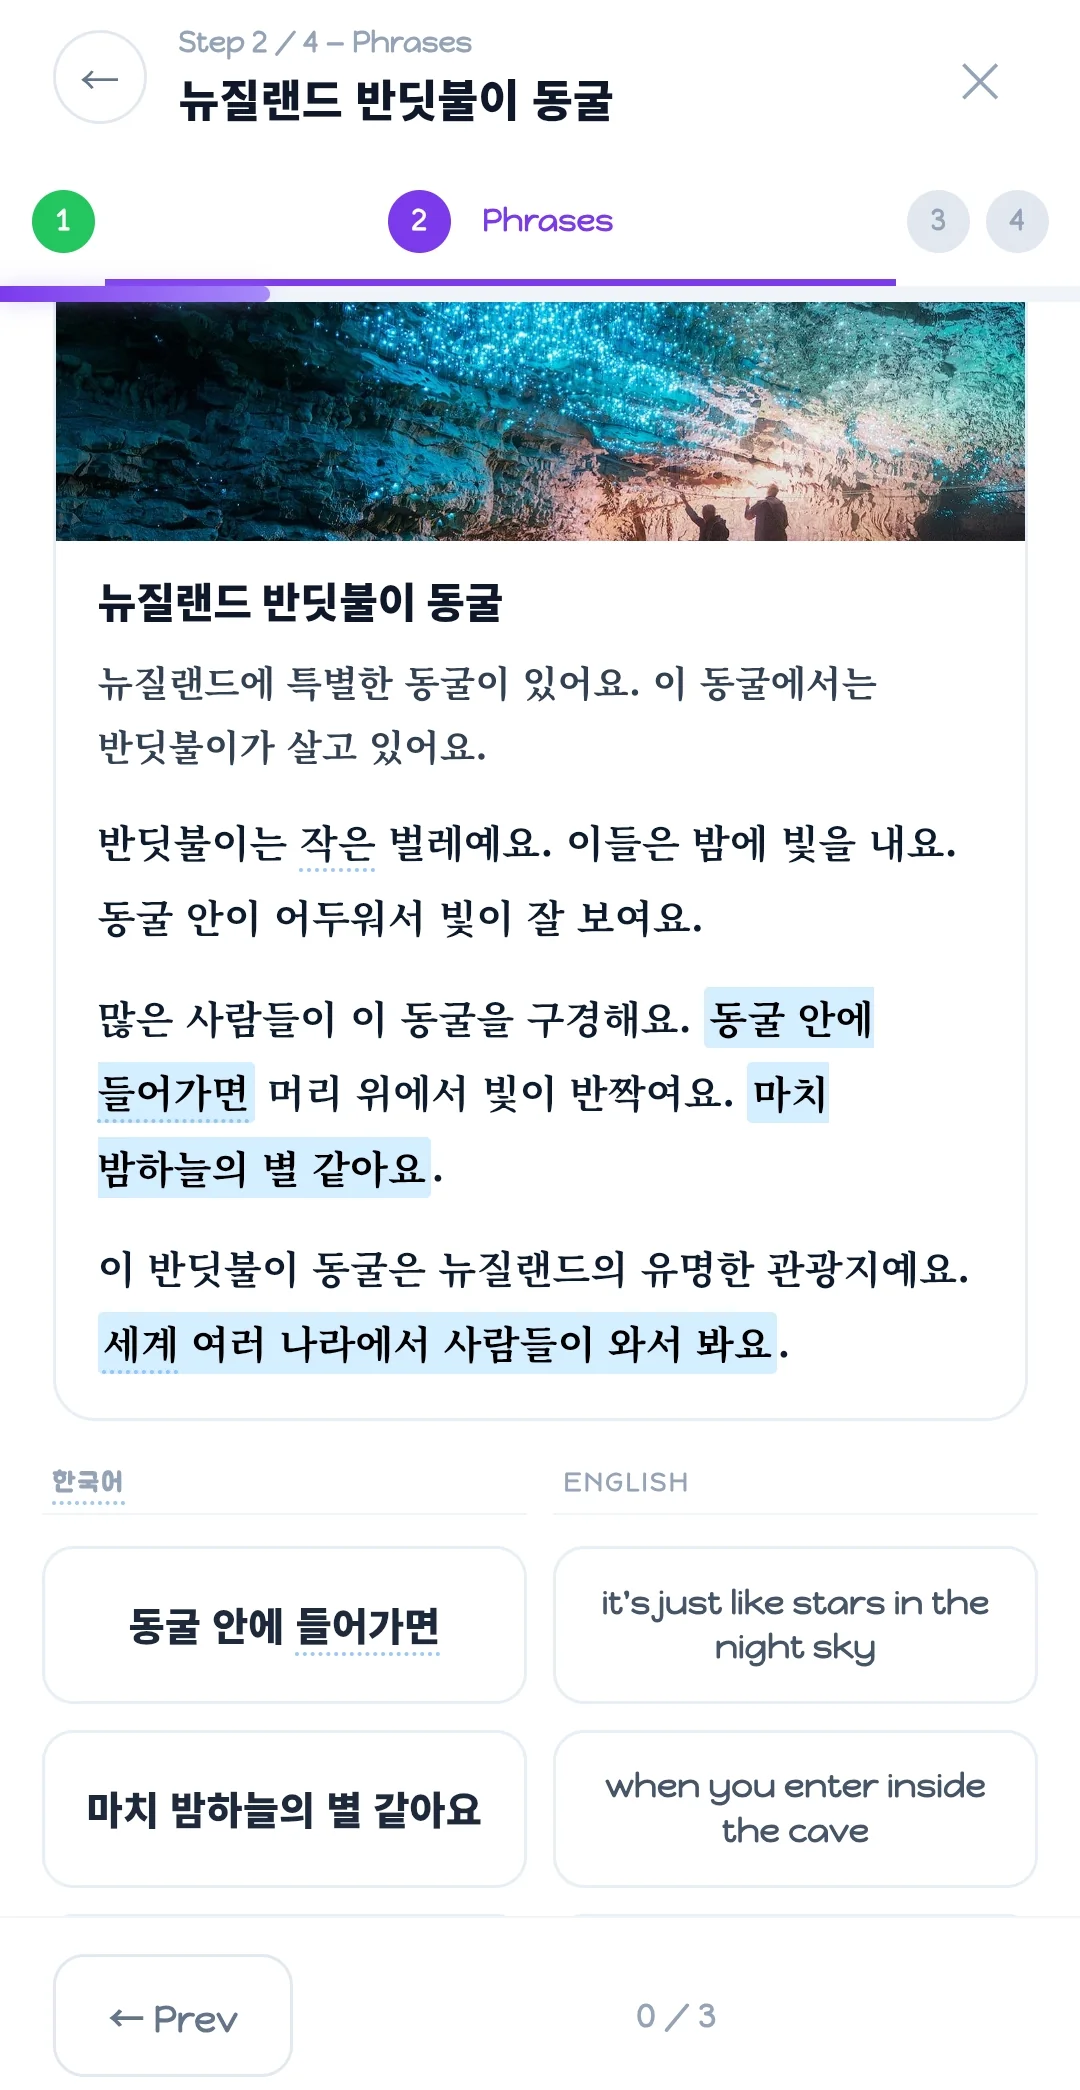
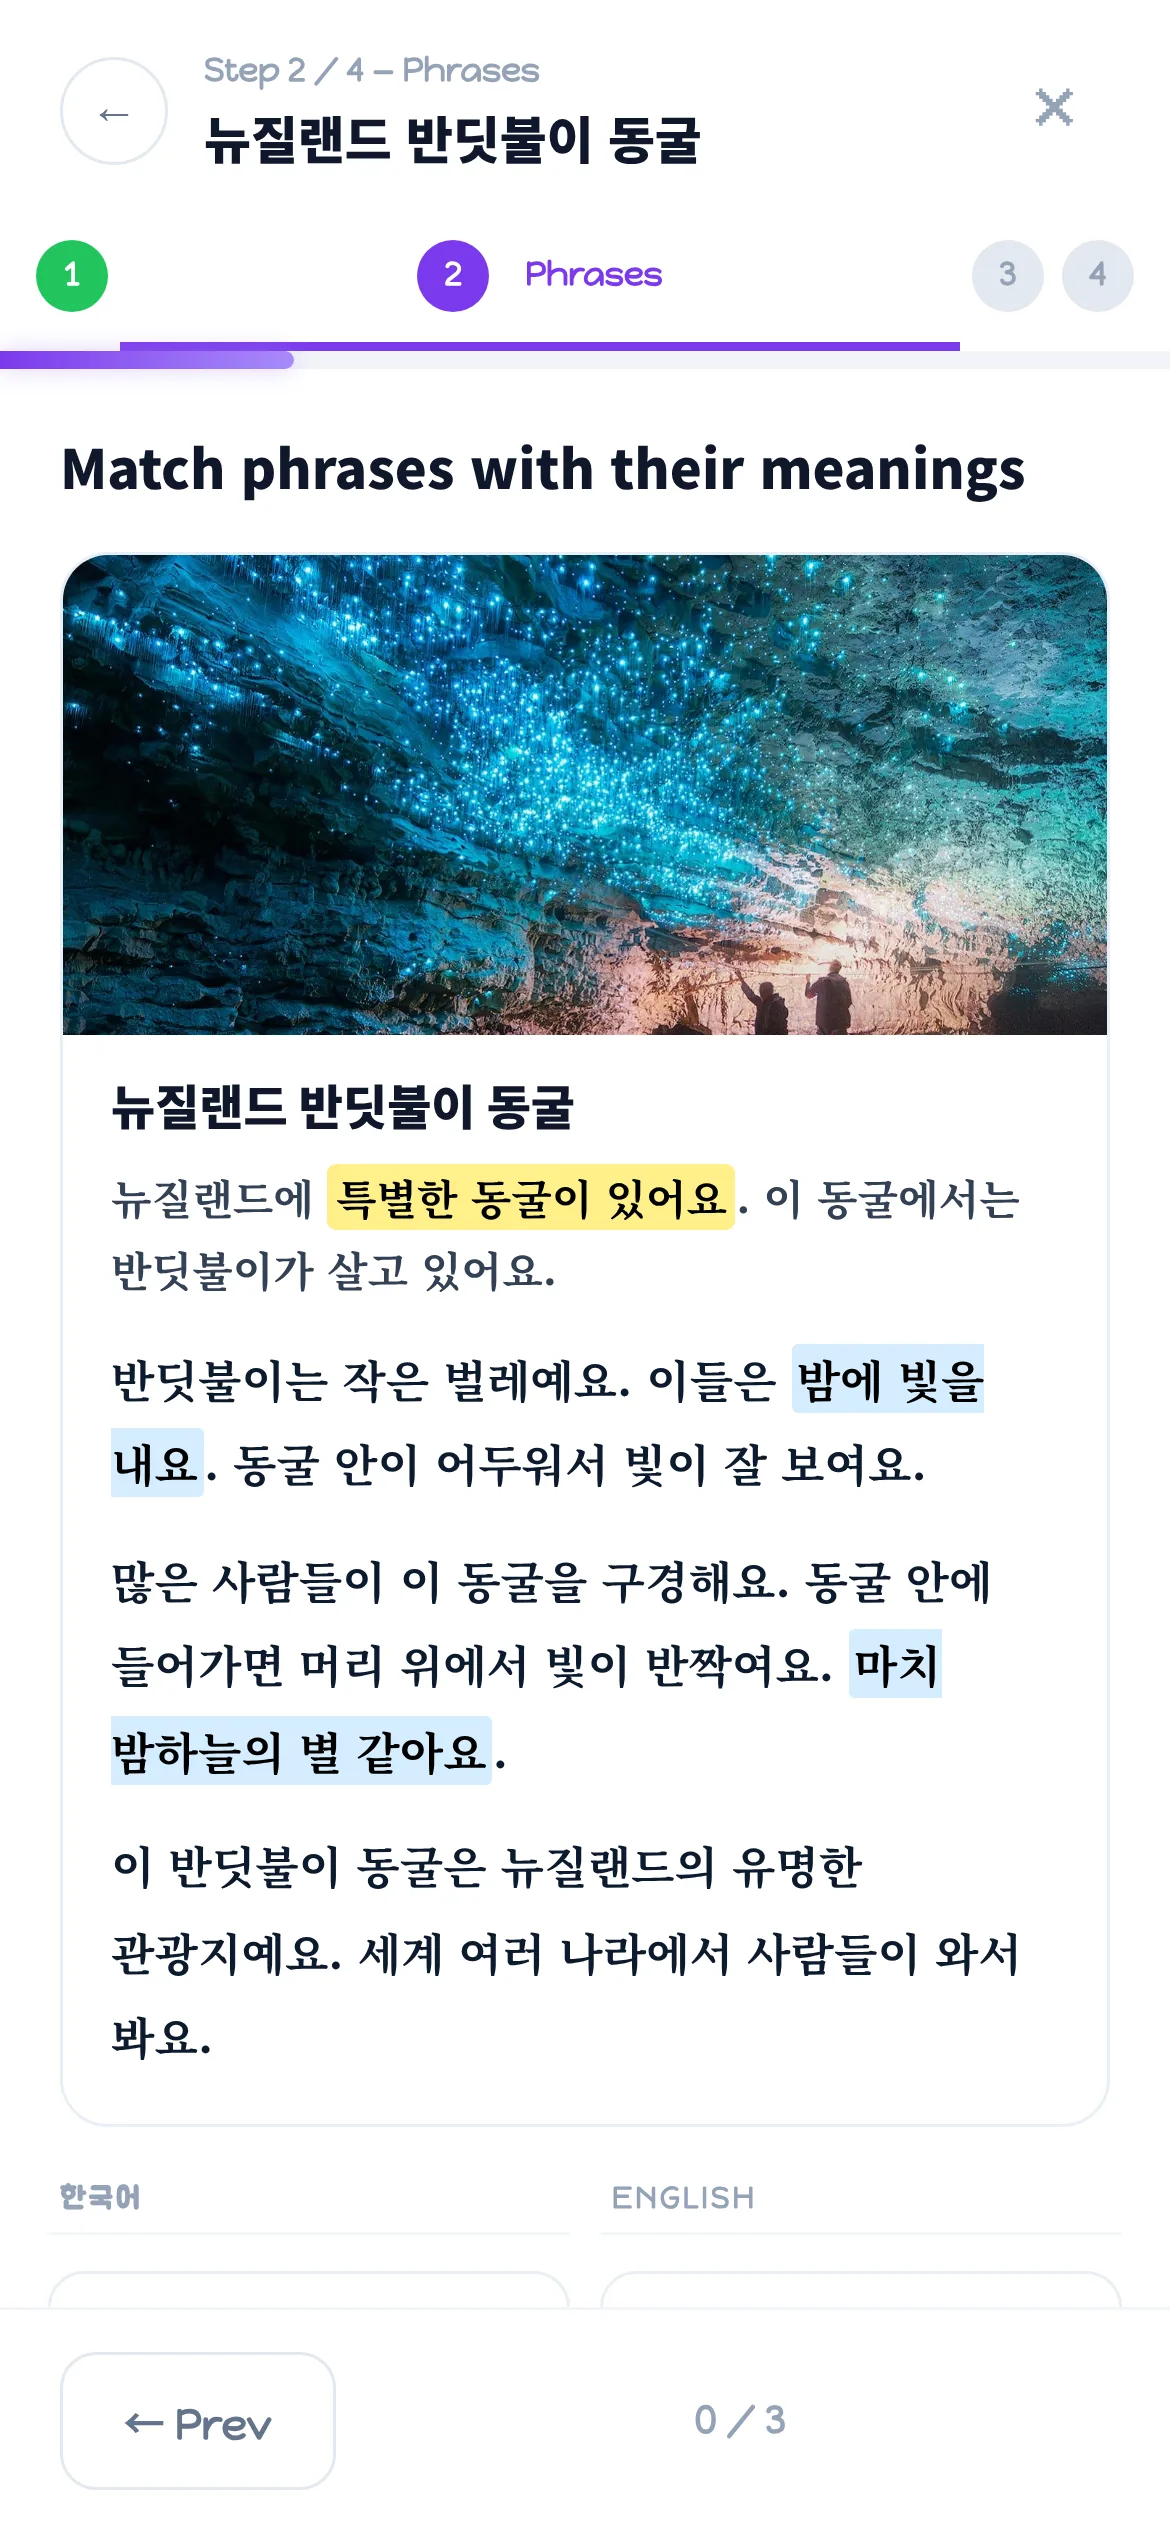
Replace premium-gated guide/landing screenshots with fresh live captures
Captured signed in on a Premium demo account (real current UI):
- 4-step Article Study (Vocab / Phrases / Reading / Quiz) on the New
  Zealand firefly-cave Starter article — real study content, not the old demo
- Express Practice node map ("What do you want to learn?") -> hero-express
- Korean Slang modal (real example) -> feat-slang
- Tap-to-analyze panel (translation + vocab + grammar) -> step1-tap-analysis,
  which is the landing hero device shot

Cache-buster bumped to 20261013c on every replaced image. No HTML layout
changes; verified both pages render at desktop width with no overflow.

Claude-Session: https://claude.ai/code/session_014HZ4hAxMZdgDGksVGuZSoX

diff --git a/korehan/landing.html b/korehan/landing.html
@@ -14,13 +14,13 @@
 <meta property="og:url" content="https://korehani.com/landing.html">
 <meta property="og:title" content="KoreHani — Learn Korean, Naturally">
 <meta property="og:description" content="Read real Korean. Tap any sentence for instant translation, vocab, and grammar. Build a Vocabulary Universe of every word you save.">
-<meta property="og:image" content="https://korehani.com/img/guide/hero-express.png">
+<meta property="og:image" content="https://korehani.com/img/guide/hero-express.png?v=20261013c">
 <meta property="og:locale" content="en_US">
 <meta property="og:locale:alternate" content="ko_KR">
 <meta name="twitter:card" content="summary_large_image">
 <meta name="twitter:title" content="KoreHani — Learn Korean, Naturally">
 <meta name="twitter:description" content="Read real Korean. Tap any sentence for instant translation, vocab, and grammar.">
-<meta name="twitter:image" content="https://korehani.com/img/guide/hero-express.png">
+<meta name="twitter:image" content="https://korehani.com/img/guide/hero-express.png?v=20261013c">
 <link rel="preconnect" href="https://fonts.googleapis.com">
 <link rel="preconnect" href="https://fonts.gstatic.com" crossorigin>
 <link rel="preconnect" href="https://samghztrdvtxmrmawneu.supabase.co" crossorigin>
@@ -331,7 +331,7 @@ button{font:inherit;cursor:pointer}
       <div class="hero-device">
         <div class="hero-device-glow"></div>
         <div class="hero-device-screen">
-          <picture><source srcset="img/guide/step1-tap-analysis.webp?v=20261013" type="image/webp"><img src="img/guide/step1-tap-analysis.jpg?v=20261013" alt="Article reader on mobile with the tap-to-analyze panel open" width="540" height="1040" fetchpriority="high" decoding="async"></picture>
+          <picture><source srcset="img/guide/step1-tap-analysis.webp?v=20261013c" type="image/webp"><img src="img/guide/step1-tap-analysis.jpg?v=20261013c" alt="Article reader on mobile with the tap-to-analyze panel open" width="540" height="1040" fetchpriority="high" decoding="async"></picture>
         </div>
       </div>
     </div>
@@ -422,19 +422,19 @@ button{font:inherit;cursor:pointer}
   </div>
   <div class="fivestep-rail">
     <div class="fivestep-card" data-reveal>
-      <div class="fivestep-img"><span class="fivestep-card-num">1</span><picture><source srcset="img/guide/step2-vocab.webp" type="image/webp"><img src="img/guide/step2-vocab.png" alt="Vocab step" loading="lazy" decoding="async" width="480" height="900"></picture></div>
+      <div class="fivestep-img"><span class="fivestep-card-num">1</span><picture><source srcset="img/guide/step2-vocab.webp?v=20261013c" type="image/webp"><img src="img/guide/step2-vocab.png?v=20261013c" alt="Vocab step" loading="lazy" decoding="async" width="480" height="900"></picture></div>
       <div class="fivestep-body"><h4>Vocab</h4><p>Match each new word to its meaning, with audio.</p></div>
     </div>
     <div class="fivestep-card" data-reveal>
-      <div class="fivestep-img"><span class="fivestep-card-num">2</span><picture><source srcset="img/guide/step2-grammar.webp" type="image/webp"><img src="img/guide/step2-grammar.png" alt="Phrases step" loading="lazy" decoding="async" width="480" height="900"></picture></div>
+      <div class="fivestep-img"><span class="fivestep-card-num">2</span><picture><source srcset="img/guide/step2-grammar.webp?v=20261013c" type="image/webp"><img src="img/guide/step2-grammar.png?v=20261013c" alt="Phrases step" loading="lazy" decoding="async" width="480" height="900"></picture></div>
       <div class="fivestep-body"><h4>Phrases</h4><p>Recognize the natural chunks Koreans actually use.</p></div>
     </div>
     <div class="fivestep-card" data-reveal>
-      <div class="fivestep-img"><span class="fivestep-card-num">3</span><picture><source srcset="img/guide/step2-reading.webp" type="image/webp"><img src="img/guide/step2-reading.png" alt="Reading step" loading="lazy" decoding="async" width="480" height="900"></picture></div>
+      <div class="fivestep-img"><span class="fivestep-card-num">3</span><picture><source srcset="img/guide/step2-reading.webp?v=20261013c" type="image/webp"><img src="img/guide/step2-reading.png?v=20261013c" alt="Reading step" loading="lazy" decoding="async" width="480" height="900"></picture></div>
       <div class="fivestep-body"><h4>Reading</h4><p>Fill blanks back into the article from the word bank.</p></div>
     </div>
     <div class="fivestep-card" data-reveal>
-      <div class="fivestep-img"><span class="fivestep-card-num">4</span><picture><source srcset="img/guide/step2-quiz.webp?v=20261013" type="image/webp"><img src="img/guide/step2-quiz.png?v=20261013" alt="Quiz step" loading="lazy" decoding="async" width="480" height="900"></picture></div>
+      <div class="fivestep-img"><span class="fivestep-card-num">4</span><picture><source srcset="img/guide/step2-quiz.webp?v=20261013c" type="image/webp"><img src="img/guide/step2-quiz.png?v=20261013c" alt="Quiz step" loading="lazy" decoding="async" width="480" height="900"></picture></div>
       <div class="fivestep-body"><h4>Quiz</h4><p>Multiple-choice or type-the-answer — both modes available.</p></div>
     </div>
   </div>
@@ -531,7 +531,7 @@ button{font:inherit;cursor:pointer}
     </div>
     <div class="fblock-visual" data-reveal>
       <div class="visual-card">
-        <picture><source srcset="img/guide/hero-express.webp" type="image/webp"><img src="img/guide/hero-express.png" alt="Express Practice node graph" loading="lazy" decoding="async" width="540" height="540"></picture>
+        <picture><source srcset="img/guide/hero-express.webp?v=20261013c" type="image/webp"><img src="img/guide/hero-express.png?v=20261013c" alt="Express Practice node graph" loading="lazy" decoding="async" width="540" height="540"></picture>
       </div>
     </div>
   </div>
@@ -555,7 +555,7 @@ button{font:inherit;cursor:pointer}
     </div>
     <div class="fblock-visual" data-reveal>
       <div class="visual-card">
-        <picture><source srcset="img/guide/feat-slang.webp" type="image/webp"><img src="img/guide/feat-slang.png" alt="FAST TRACK slang card" loading="lazy" decoding="async" width="540" height="540"></picture>
+        <picture><source srcset="img/guide/feat-slang.webp?v=20261013c" type="image/webp"><img src="img/guide/feat-slang.png?v=20261013c" alt="FAST TRACK slang card" loading="lazy" decoding="async" width="540" height="540"></picture>
       </div>
     </div>
   </div>

diff --git a/korehan/beginner-guide.html b/korehan/beginner-guide.html
@@ -145,7 +145,7 @@
     </a>
     <a href="#step2" class="step-card" data-reveal>
       <div class="step-img">
-        <picture><source srcset="img/guide/step2-vocab.webp" type="image/webp"><img src="img/guide/step2-vocab.png" alt="4-step Article Study flow" loading="lazy" decoding="async"></picture>
+        <picture><source srcset="img/guide/step2-vocab.webp?v=20261013c" type="image/webp"><img src="img/guide/step2-vocab.png?v=20261013c" alt="4-step Article Study flow" loading="lazy" decoding="async"></picture>
         <div class="step-num">2</div>
       </div>
       <div class="step-body">
@@ -198,7 +198,7 @@
       </div>
     </div>
     <div class="detail-showcase">
-      <picture><source srcset="img/guide/step1-tap-analysis.webp?v=20261013" type="image/webp"><img class="ss-main" src="img/guide/step1-tap-analysis.jpg?v=20261013" alt="Tap a sentence — translation, vocab, and grammar appear inline" loading="lazy" decoding="async"></picture>
+      <picture><source srcset="img/guide/step1-tap-analysis.webp?v=20261013c" type="image/webp"><img class="ss-main" src="img/guide/step1-tap-analysis.jpg?v=20261013c" alt="Tap a sentence — translation, vocab, and grammar appear inline" loading="lazy" decoding="async"></picture>
       <picture><source srcset="img/guide/shot-conversation.webp?v=20261013b" type="image/webp"><img class="ss-float top-right" src="img/guide/shot-conversation.png?v=20261013b" alt="Conversation as a chat thread" loading="lazy" decoding="async"></picture>
     </div>
   </section>
@@ -222,8 +222,8 @@
       </div>
     </div>
     <div class="detail-showcase">
-      <picture><source srcset="img/guide/step2-reading.webp" type="image/webp"><img class="ss-main" src="img/guide/step2-reading.png" alt="Reading: fill blanks back into the article" loading="lazy" decoding="async"></picture>
-      <picture><source srcset="img/guide/hero-express.webp" type="image/webp"><img class="ss-float bottom-left" src="img/guide/hero-express.png" alt="Express Practice: warm-up nodes that lead into writing" onerror="this.style.display='none'" loading="lazy" decoding="async"></picture>
+      <picture><source srcset="img/guide/step2-reading.webp?v=20261013c" type="image/webp"><img class="ss-main" src="img/guide/step2-reading.png?v=20261013c" alt="Reading: fill blanks back into the article" loading="lazy" decoding="async"></picture>
+      <picture><source srcset="img/guide/hero-express.webp?v=20261013c" type="image/webp"><img class="ss-float bottom-left" src="img/guide/hero-express.png?v=20261013c" alt="Express Practice: warm-up nodes that lead into writing" onerror="this.style.display='none'" loading="lazy" decoding="async"></picture>
     </div>
   </section>
 
